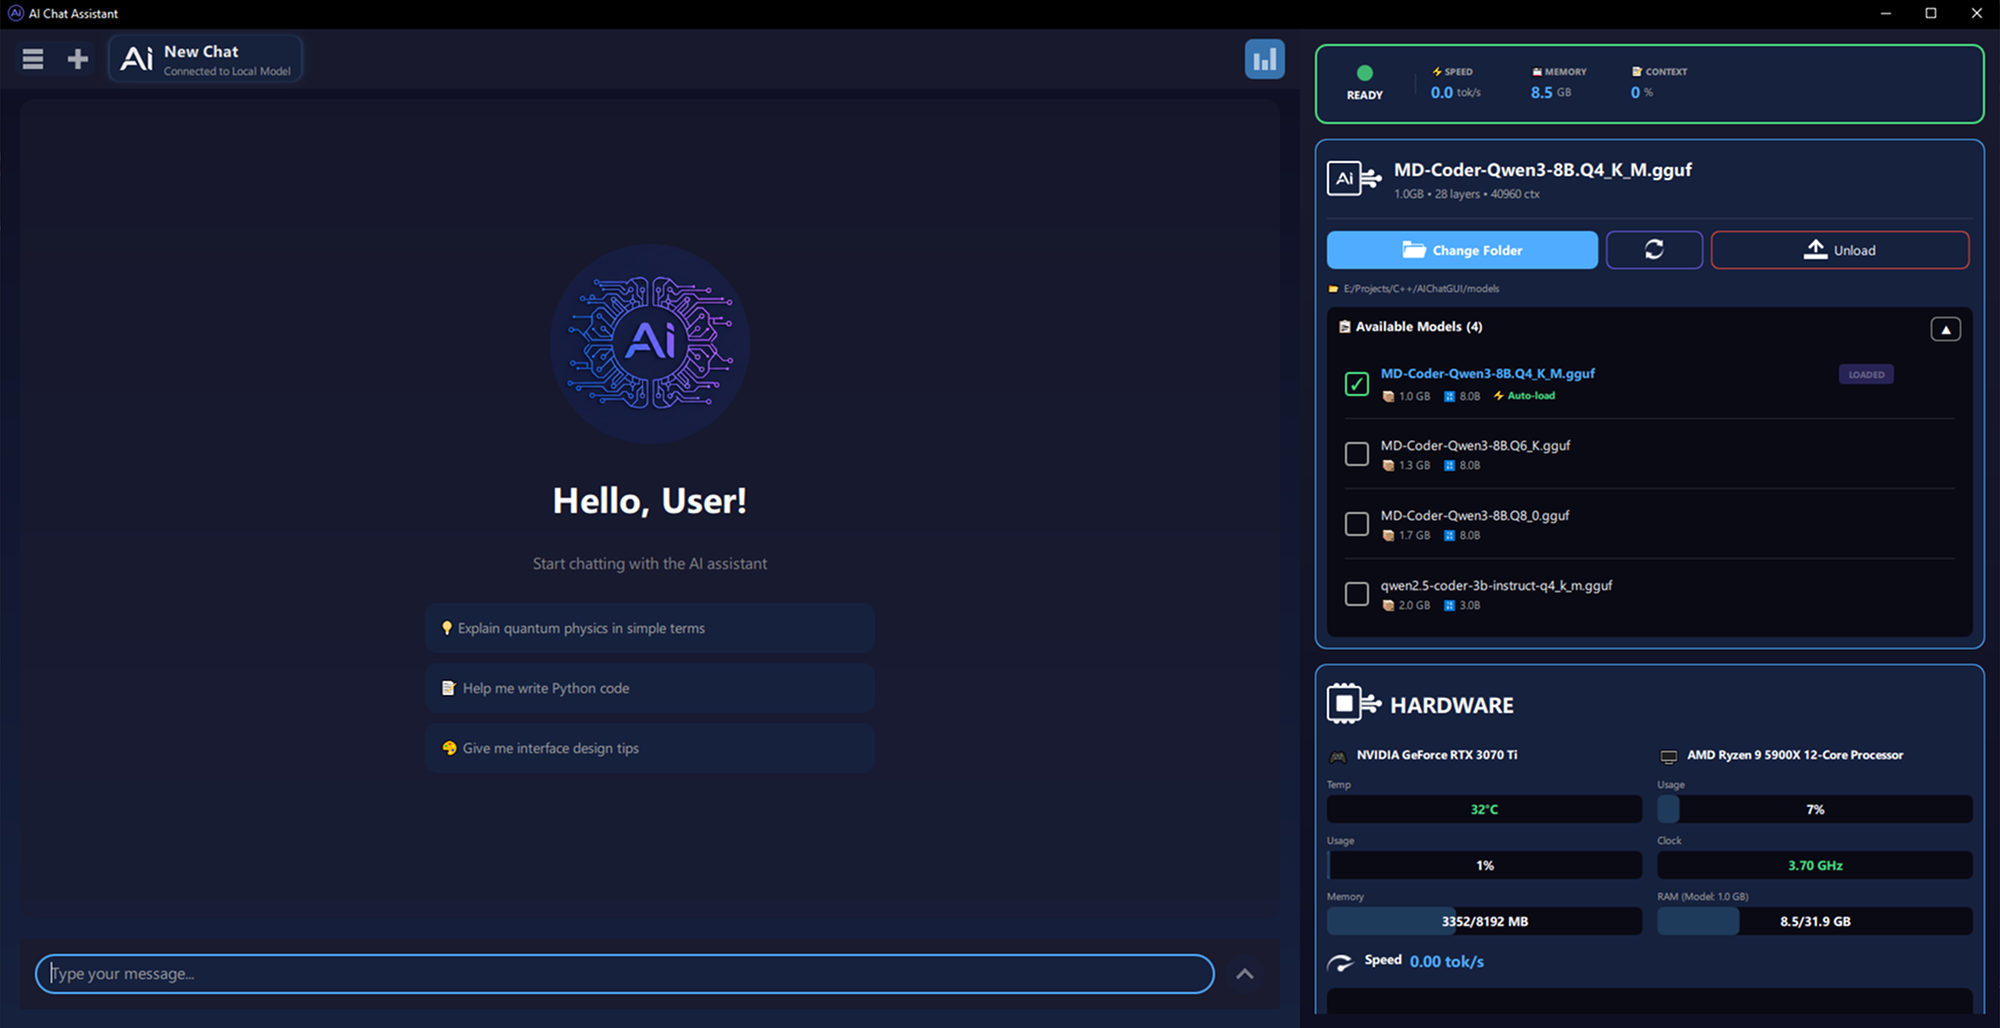
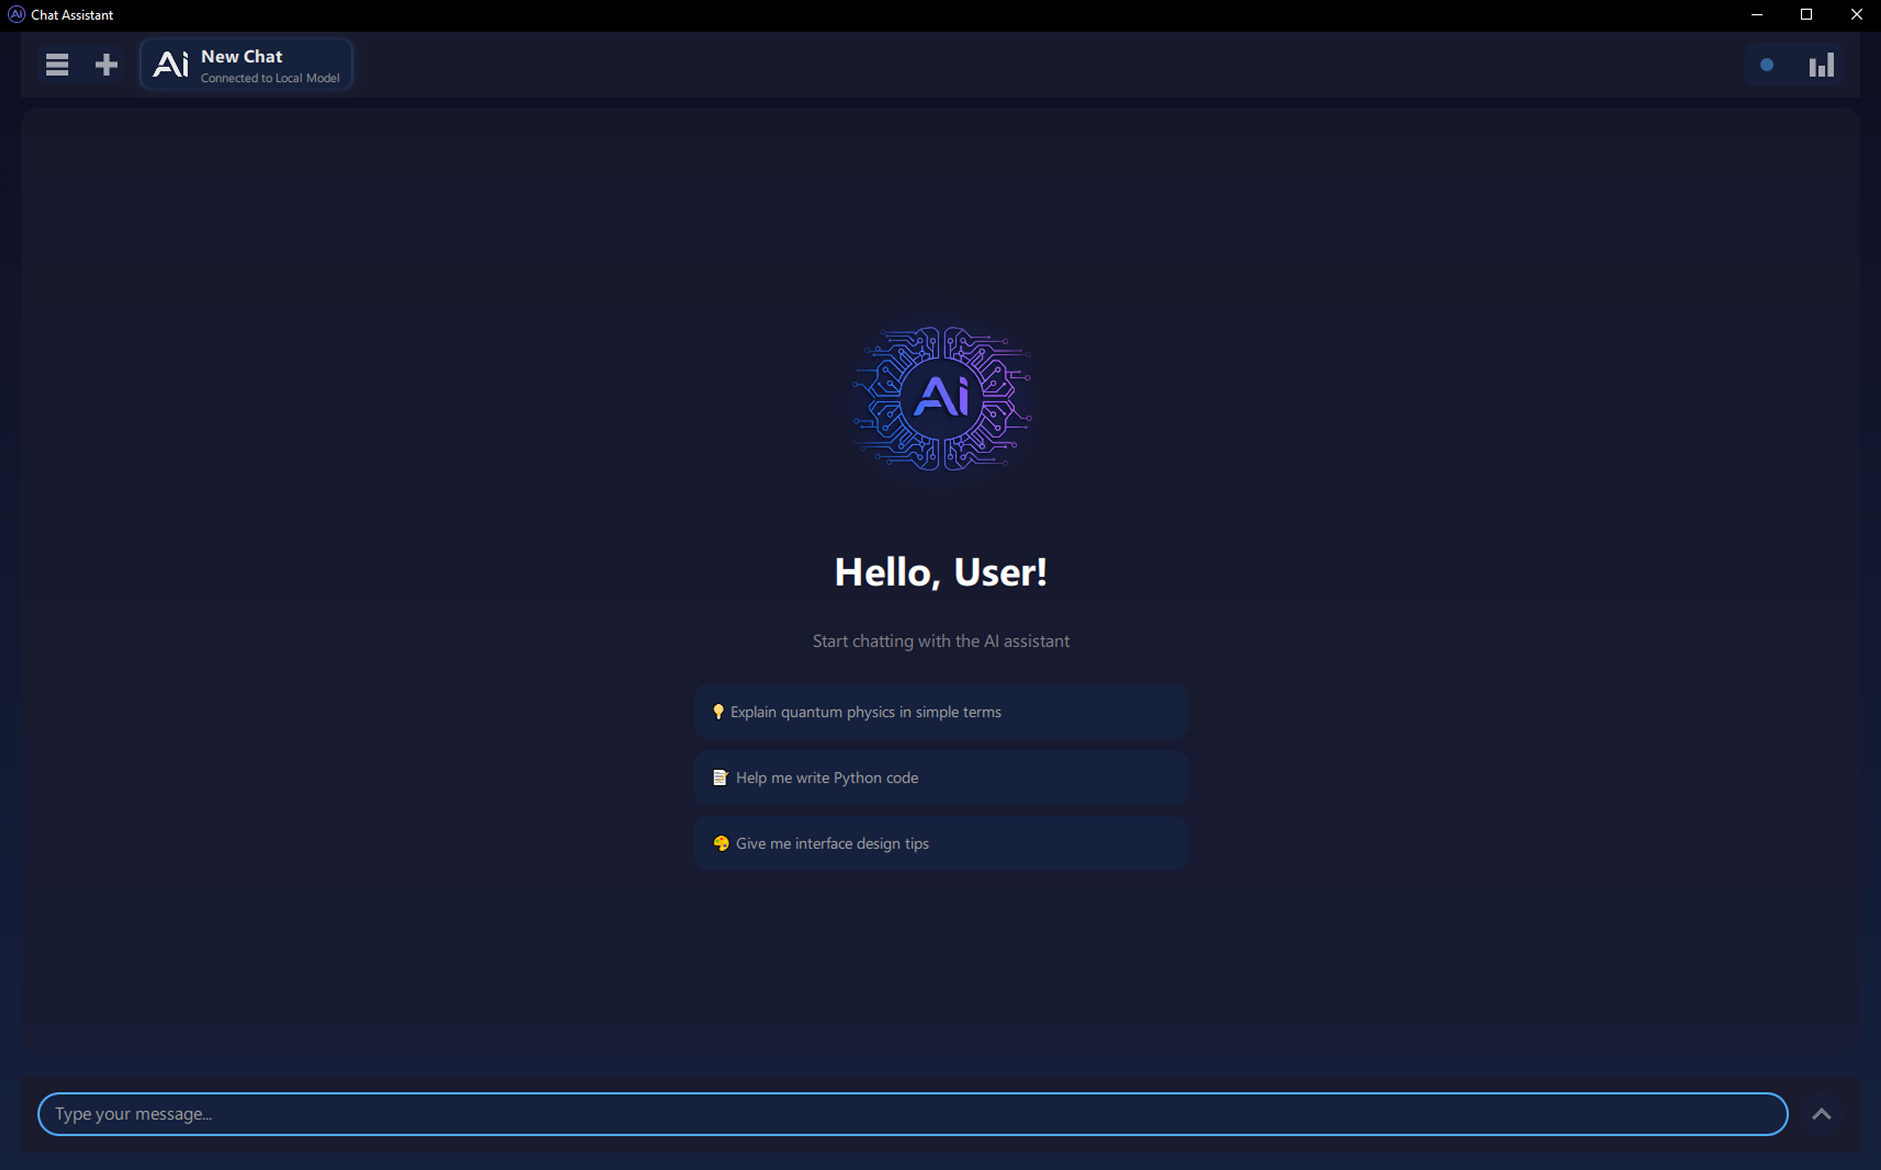
Screenshot update

diff --git a/Main.qml b/Main.qml
@@ -10,7 +10,7 @@ ApplicationWindow {
     height: 1000
     minimumWidth: 400
     minimumHeight: 500
-    title: "AI Chat Assistant"
+    title: "Chat Assistant"
 
     flags: Qt.Window | Qt.WindowTitleHint | Qt.WindowSystemMenuHint |
            Qt.WindowMinimizeButtonHint | Qt.WindowMaximizeButtonHint |
@@ -765,7 +765,6 @@ ApplicationWindow {
                 ScrollBar.horizontal.policy: ScrollBar.AlwaysOff
                 ScrollBar.vertical.policy: inputField.contentHeight > 200 ? ScrollBar.AsNeeded : ScrollBar.AlwaysOff
 
-                // Добавьте Item-контейнер, который заполнит всю область
                 Item {
                     width: parent.width
                     height: Math.max(parent.height, inputField.contentHeight)
@@ -835,16 +834,14 @@ ApplicationWindow {
                         }
                     }
 
-                    // MouseArea поверх всего Item-контейнера
+                    // MouseArea over the entire Item container
                     MouseArea {
                         anchors.fill: parent
                         onClicked: function(mouse) {
                             inputField.forceActiveFocus()
-                            // Если клик попал в область TextEdit, ставим курсор туда
                             if (mouse.y <= inputField.contentHeight) {
                                 inputField.cursorPosition = inputField.positionAt(mouse.x, mouse.y)
                             } else {
-                                // Иначе в конец текста
                                 inputField.cursorPosition = inputField.length
                             }
                         }
